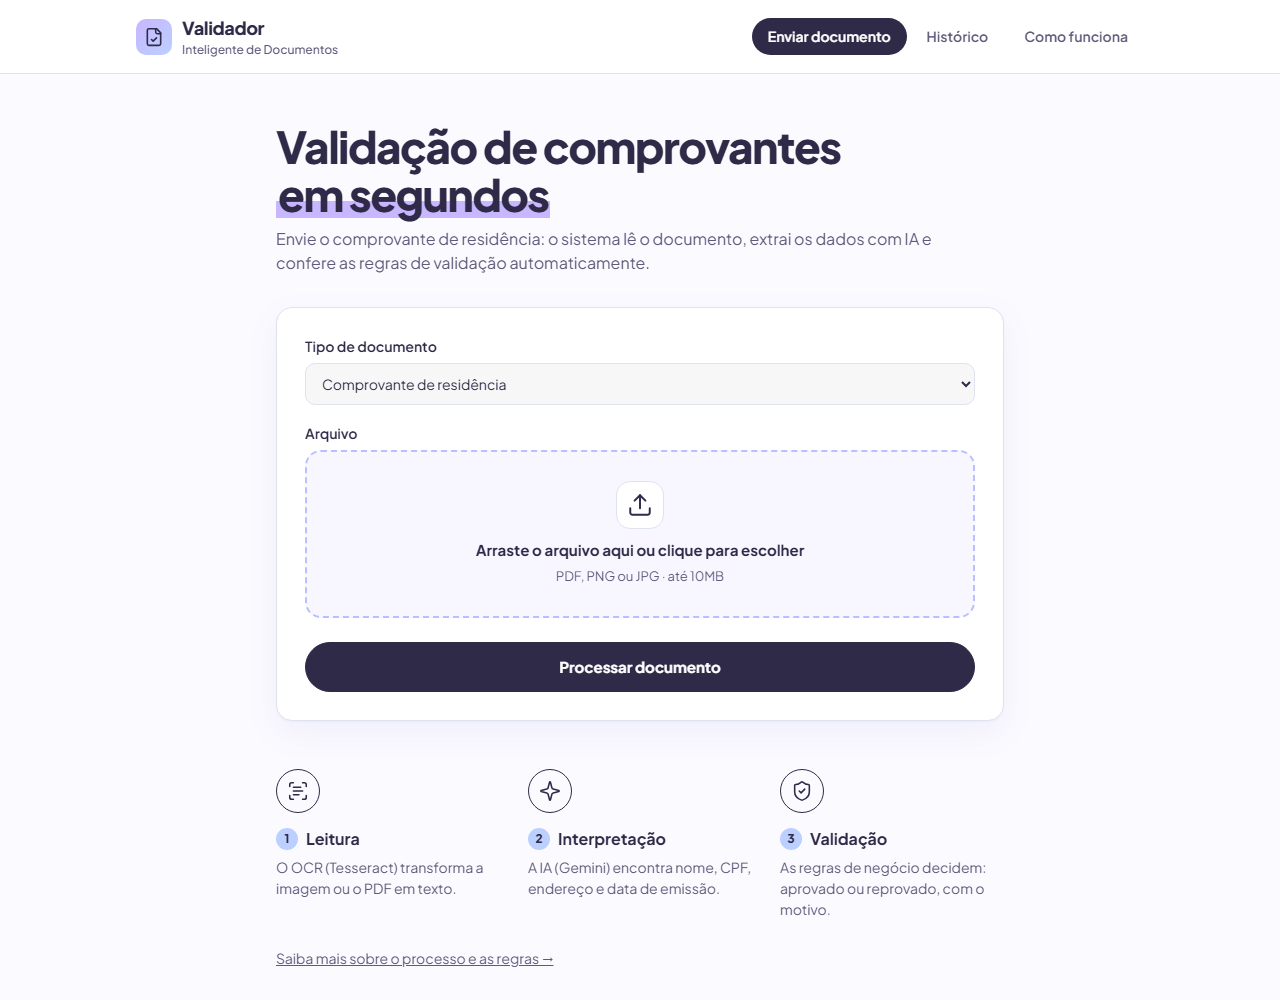
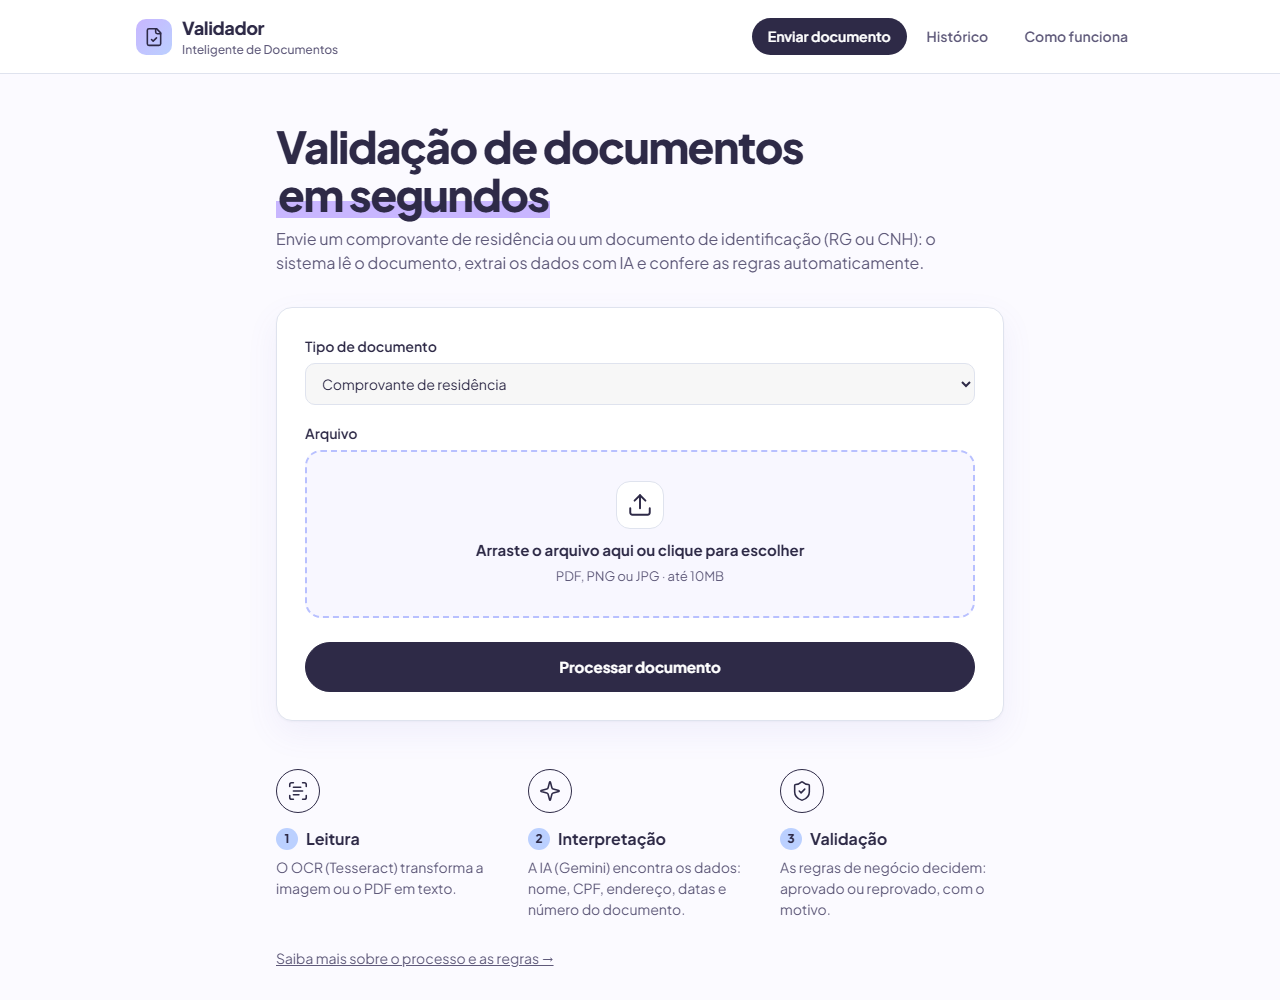
docs: inclui RG e CNH no README

Changed region(s): [[0.2188, 0.217, 0.7188, 0.279], [0.4375, 0.124, 0.6562, 0.186], [0.4062, 0.868, 0.5625, 0.93]]

diff --git a/README.md b/README.md
@@ -2,7 +2,7 @@
 
 Projeto do semestre 2026.2 — Residência Tecnológica (Porto Digital · CESAR School · mentoria Avanade).
 
-Aplicação em **Java + Spring Boot** que recebe documentos digitais (PDF/imagem), extrai as informações com **OCR (Tesseract)** e **IA (Google Gemini)**, aplica **regras de negócio** e devolve se o documento foi **APROVADO ou REPROVADO** — sempre com o motivo —, guardando o resultado no **PostgreSQL** para consulta pela tela e por uma **API REST**.
+Aplicação em **Java + Spring Boot** que recebe documentos digitais (PDF/imagem) — **comprovante de residência** e **documento de identificação (RG ou CNH)** —, extrai as informações com **OCR (Tesseract)** e **IA (Google Gemini)**, aplica **regras de negócio** e devolve se o documento foi **APROVADO ou REPROVADO** — sempre com o motivo —, guardando o resultado no **PostgreSQL** para consulta pela tela e por uma **API REST**.
 
 ![Tela de resultado: documento reprovado por emissão com mais de 90 dias](docs/prints/03-resultado-reprovado.png)
 
@@ -31,11 +31,11 @@ Aplicação em **Java + Spring Boot** que recebe documentos digitais (PDF/imagem
 |---|---|
 | **Problema** | A validação manual de documentos no cadastro de clientes é lenta, sujeita a erro e gera retrabalho e risco operacional. |
 | **Usuário** | Analista de cadastro / backoffice que precisa conferir documentos enviados por clientes. |
-| **Documento (MVP)** | **Comprovante de residência**. Próxima etapa: documento de identificação (RG/CNH). |
-| **Dados extraídos** | Nome, CPF, endereço, CEP, cidade, estado e data de emissão. |
-| **Regras** | Documento legível · nome identificado · CPF válido · endereço identificado · CEP válido · estado válido · emissão há no máximo 90 dias. |
+| **Documentos** | **Comprovante de residência** (MVP) e **documento de identificação — RG ou CNH**. |
+| **Dados extraídos** | Comprovante: nome, CPF, endereço, CEP, cidade, estado e data de emissão. RG/CNH: nome, CPF, número do documento, tipo (RG ou CNH), data de nascimento e validade. |
+| **Regras** | 7 regras por tipo de documento (ver [seção 8](#8-regras-de-validação)): legibilidade, nome e CPF em ambos; endereço, CEP, UF e emissão em até 90 dias no comprovante; número, nascimento, maioridade e validade no RG/CNH. |
 | **Aprovação** | Todos os dados obrigatórios extraídos e **todas** as regras atendidas. |
-| **Rejeição** | Documento ilegível, dados obrigatórios ausentes ou inválidos, ou emissão com mais de 90 dias. |
+| **Rejeição** | Documento ilegível, dados obrigatórios ausentes ou inválidos, comprovante emitido há mais de 90 dias, CNH vencida ou titular menor de idade. |
 
 ## 2. Fluxo da solução
 
@@ -43,16 +43,16 @@ Aplicação em **Java + Spring Boot** que recebe documentos digitais (PDF/imagem
 flowchart LR
     A["Upload<br/>PDF · PNG · JPG"] --> B["PDFBox<br/>PDF → imagem"]
     B --> C["Tesseract OCR<br/>imagem → texto"]
-    C --> D["Gemini<br/>texto → JSON"]
-    D --> E["Regras em Java<br/>7 validações"]
+    C --> D["Gemini<br/>texto → JSON<br/>(prompt por tipo)"]
+    D --> E["Regras em Java<br/>7 por tipo"]
     E --> F[("PostgreSQL")]
     F --> G["Tela + API REST<br/>APROVADO / REPROVADO"]
 ```
 
-1. O analista envia o arquivo pela tela (ou outro sistema envia pela API).
+1. O analista escolhe o tipo (comprovante ou RG/CNH) e envia o arquivo pela tela (ou outro sistema envia pela API).
 2. PDFs são renderizados em imagem (300 DPI, até 3 páginas) e o **Tesseract** lê o texto em português.
-3. O **Gemini** recebe o texto do OCR e devolve um JSON com os campos do comprovante (`null` quando não encontra — o prompt proíbe inventar).
-4. O `ValidacaoService` aplica as **7 regras**; o documento só é aprovado se todas passarem.
+3. O **Gemini** recebe o texto do OCR com o **prompt do tipo de documento** e devolve um JSON com os campos (`null` quando não encontra — o prompt proíbe inventar).
+4. O `ValidacaoService` aplica as **7 regras daquele tipo**; o documento só é aprovado se todas passarem.
 5. Tudo é gravado no **PostgreSQL** (texto do OCR, dados extraídos, status e o checklist de regras) e fica disponível no histórico e na API.
 
 > Se a IA estiver indisponível, o documento **não é reprovado**: ele é gravado como "não validado", com o motivo do erro. Falha da nossa infraestrutura não pode prejudicar o cliente.
@@ -63,13 +63,17 @@ flowchart LR
 |---|---|
 | ![Tela de envio](docs/prints/01-envio.png) | ![Resultado aprovado](docs/prints/02-resultado-aprovado.png) |
 
-| Histórico | Como funciona |
+| Resultado (CNH) | Histórico |
 |---|---|
-| ![Histórico](docs/prints/04-historico.png) | ![Como funciona](docs/prints/05-como-funciona.png) |
+| ![Resultado de uma CNH](docs/prints/06-resultado-cnh.png) | ![Histórico](docs/prints/04-historico.png) |
 
-- **Enviar documento:** área de arrastar e soltar, aviso imediato para arquivos acima de 10MB e botão "Processando…" durante o envio.
-- **Resultado:** selo APROVADO/REPROVADO, resumo "X de 7 regras atendidas", checklist com o motivo de cada regra, dados extraídos pela IA e o texto do OCR (recolhível).
-- **Histórico:** todos os documentos processados, do mais recente para o mais antigo.
+| Como funciona |
+|---|
+| ![Como funciona](docs/prints/05-como-funciona.png) |
+
+- **Enviar documento:** escolha do tipo (comprovante ou RG/CNH), área de arrastar e soltar, aviso imediato para arquivos acima de 10MB e botão "Processando…" durante o envio.
+- **Resultado:** selo APROVADO/REPROVADO, resumo "X de 7 regras atendidas", checklist com o motivo de cada regra, dados extraídos pela IA (os campos mudam conforme o tipo) e o texto do OCR (recolhível).
+- **Histórico:** todos os documentos processados, com o tipo, do mais recente para o mais antigo.
 - **Como funciona:** explica o problema, o fluxo, como usar, as regras e a API.
 
 Identidade visual em tons pastel (lilás `#C8B6FF`, lavanda `#B8C0FF`, azul `#BBD0FF`), fonte Plus Jakarta Sans e layout responsivo (celular sem rolagem horizontal).
@@ -98,9 +102,10 @@ br.com.matheuslarre.validadordocumentos
 ├── api/          DocumentoApiController (REST), DTOs (records), ApiExceptionHandler (ProblemDetail)
 ├── service/      ProcessamentoService (orquestra o fluxo), ArmazenamentoService (upload),
 │                 OcrService (Tesseract + PDFBox), ConsultaDocumentoService (histórico)
-├── ia/           GeminiService (chamada HTTP, nova tentativa, timeout), DadosComprovante (record)
-├── validacao/    ValidacaoService (7 regras), ResultadoValidacao, RegraResultado, StatusValidacao
-├── model/        Documento (entidade JPA), RegraAplicada (tabela filha do checklist)
+├── ia/           GeminiService (um prompt por tipo, nova tentativa, timeout),
+│                 DadosExtraidos (sealed interface) → DadosComprovante | DadosIdentificacao (records)
+├── validacao/    ValidacaoService (regras de cada tipo), ResultadoValidacao, RegraResultado, StatusValidacao
+├── model/        Documento (entidade JPA), RegraAplicada (tabela filha do checklist), TipoDocumento (enum)
 ├── repository/   DocumentoRepository (Spring Data JPA)
 ├── config/       RelogioConfig (Clock), OpenCvConfig
 └── imagem/       ConversorImagem (BufferedImage ↔ Mat do OpenCV)
@@ -158,7 +163,7 @@ O `.env` está no `.gitignore` e no `.dockerignore`: a chave nunca vai para o Gi
 
 | Método | Endpoint | Descrição | Resposta |
 |---|---|---|---|
-| `POST` | `/api/documentos` | Envia um documento (multipart: `tipo` + `arquivo`) | **201** + `Location` + JSON do resultado |
+| `POST` | `/api/documentos` | Envia um documento (multipart: `tipo` + `arquivo`); `tipo` = `COMPROVANTE_RESIDENCIA` ou `DOCUMENTO_IDENTIFICACAO` | **201** + `Location` + JSON do resultado |
 | `GET` | `/api/documentos` | Lista o histórico resumido | **200** |
 | `GET` | `/api/documentos/{id}` | Detalhe completo (regras, dados, OCR) | **200** ou **404** |
 
@@ -197,11 +202,13 @@ Erros seguem o padrão **ProblemDetail (RFC 9457)**:
 
 | Status | Quando |
 |---|---|
-| `400` | Arquivo vazio, formato não suportado ou parâmetro ausente |
+| `400` | Arquivo vazio, formato não suportado, tipo de documento desconhecido ou parâmetro ausente |
 | `404` | Documento inexistente (ou id malformado) |
 | `422` | O arquivo chegou, mas não foi possível ler (PDF/imagem corrompidos) |
 
 ## 8. Regras de validação
+
+### Comprovante de residência
 
 | # | Regra | Como é verificada |
 |---|---|---|
@@ -213,7 +220,19 @@ Erros seguem o padrão **ProblemDetail (RFC 9457)**:
 | 6 | **Estado válido** | Uma das 27 UFs brasileiras. |
 | 7 | **Emissão recente** | Data presente, não futura e com **no máximo 90 dias**. |
 
-**Decisão:** APROVADO só se as 7 regras passarem. Cada regra devolve o motivo, que aparece no checklist (ex.: *"Emitido em 10/07/2026, há 137 dias (limite: 90)"*).
+### Documento de identificação (RG ou CNH)
+
+| # | Regra | Como é verificada |
+|---|---|---|
+| 1 | **Documento legível** | Mesma regra do comprovante. |
+| 2 | **Nome identificado** | A IA encontrou o nome completo do titular. |
+| 3 | **CPF válido** | Mesma conferência do módulo 11. |
+| 4 | **Número do documento** | Número do RG ou registro da CNH encontrado. |
+| 5 | **Data de nascimento válida** | Presente, não futura e plausível (até 130 anos). |
+| 6 | **Titular maior de idade** | 18 anos completos — é cadastro de cliente. |
+| 7 | **Dentro da validade** | A CNH precisa ter validade e não estar vencida; o RG não tem validade e passa, com o motivo explicado. |
+
+**Decisão:** APROVADO só se as 7 regras do tipo passarem. Cada regra devolve o motivo, que aparece no checklist (ex.: *"Emitido em 10/07/2026, há 137 dias (limite: 90)"*, *"Documento vencido em 15/08/2025"* ou *"Titular tem 16 anos (mínimo: 18)"*). Legibilidade, nome e CPF são **as mesmas regras** nos dois tipos — o código é reaproveitado, não copiado.
 
 **Algoritmo do CPF (módulo 11):** o CPF tem 9 dígitos de base e 2 verificadores.
 - 1º verificador: multiplica os 9 primeiros dígitos pelos pesos 10, 9, …, 2 e soma. `resto = soma % 11`; se `resto < 2`, o dígito é 0, senão é `11 − resto`.
@@ -226,15 +245,15 @@ Erros seguem o padrão **ProblemDetail (RFC 9457)**:
 .\mvnw.cmd test
 ```
 
-**73 testes**, todos passando (também rodam dentro do `docker build`):
+**93 testes**, todos passando (também rodam dentro do `docker build`):
 
 | Tipo | O que cobre |
 |---|---|
-| **Unitários** (`ValidacaoServiceTest`) | Cada regra, com casos de borda: emissão com exatamente 90 dias, com 91 e no futuro; CPF com dígito errado, repetido e com dígito verificador 0. O `Clock` é fixo, então os testes não "vencem". |
-| **Unitários com Mockito** (`ProcessamentoServiceTest`) | A orquestração: IA fora do ar não reprova; documento ilegível não chama a IA; arquivo inválido não grava nada. |
-| **HTTP simulado** (`GeminiServiceTest`) | `MockRestServiceServer`: chave no cabeçalho, nova tentativa em 503, mensagem amigável e nenhuma nova tentativa em 404. A API real nunca é chamada. |
+| **Unitários** (`ValidacaoServiceTest`) | Cada regra, com casos de borda: emissão com exatamente 90 dias, com 91 e no futuro; CPF com dígito errado, repetido e com dígito verificador 0; 18 anos completos hoje (passa) e amanhã (falha); CNH que vence hoje (passa) e venceu ontem (falha); RG sem validade. O `Clock` é fixo, então os testes não "vencem". |
+| **Unitários com Mockito** (`ProcessamentoServiceTest`) | A orquestração: IA fora do ar não reprova; documento ilegível não chama a IA; arquivo inválido não grava nada; RG/CNH usa o prompt e as regras certos; tipo desconhecido nem salva o arquivo. |
+| **HTTP simulado** (`GeminiServiceTest`) | `MockRestServiceServer`: chave no cabeçalho, prompt certo por tipo, nova tentativa em 503, mensagem amigável e nenhuma nova tentativa em 404. A API real nunca é chamada. |
 | **Integração com H2** (`DocumentoRepositoryTest`) | Mapeamento JPA: grava e lê o documento com o checklist na ordem certa. |
-| **API com MockMvc** (`DocumentoApiControllerTest`) | Status 201/400/404, cabeçalho `Location`, formato ProblemDetail e DTOs. |
+| **API com MockMvc** (`DocumentoApiControllerTest`) | Status 201/400/404, cabeçalho `Location`, formato ProblemDetail, DTOs e os campos de cada tipo de documento. |
 
 ## 10. Decisões técnicas e trade-offs
 
@@ -245,6 +264,10 @@ Erros seguem o padrão **ProblemDetail (RFC 9457)**:
 - **`record` para dados imutáveis** (`DadosComprovante`, `RegraResultado`, DTOs): o Java gera construtor, getters, `equals` e `toString`, e o objeto não muda depois de criado.
 - **`Clock` injetado com fuso `America/Sao_Paulo`.** Os testes fixam "hoje" numa data conhecida (senão o teste dos 90 dias quebraria com o tempo). O fuso explícito evita que, no Docker (UTC), a data vire o dia seguinte depois das 21h.
 - **IA fora do ar não reprova o documento:** ele fica "não validado", com o motivo. OCR sem texto, por outro lado, reprova como ilegível.
+- **Um novo tipo de documento sem reescrever o fluxo.** O RG/CNH entrou com: um `enum TipoDocumento`, um segundo prompt e um novo conjunto de regras. O `ProcessamentoService` escolhe prompt e regras com um `switch` sobre o enum — se um terceiro tipo for criado, o compilador aponta todos os lugares que precisam tratá-lo.
+- **`sealed interface DadosExtraidos`** (Java 17): os dados extraídos só podem ser `DadosComprovante` ou `DadosIdentificacao`. O compilador garante que não existe um terceiro tipo "surpresa".
+- **Método genérico na IA** (`<T> T extrair(prompt, texto, Class<T>)`): a chamada HTTP, a nova tentativa e a conversão do JSON são as mesmas para os dois documentos; só mudam o prompt e o record de destino.
+- **Regras de negócio do RG/CNH:** maioridade (18 anos) porque o contexto é cadastro de cliente; e o RG, que normalmente não tem validade, passa nessa regra com o motivo explicado — em vez de ser reprovado por um campo que não existe nele.
 
 **Integração com a IA**
 - **Versão fixa do modelo (`gemini-2.5-flash`) em vez do apelido `latest`.** O apelido muda sozinho e é o mais disputado (nos testes, dava 503 por alta demanda). Fixar a versão dá previsibilidade, como fixar a versão de uma dependência no `pom.xml`.
@@ -267,7 +290,8 @@ Erros seguem o padrão **ProblemDetail (RFC 9457)**:
 ## 11. Limitações e próximos passos
 
 - **Pré-processamento com OpenCV:** a base está integrada (carregamento da biblioteca e conversão de imagens), mas a imagem ainda vai direto para o OCR. Próximo passo: tons de cinza, ampliação, remoção de ruído e binarização antes do Tesseract, para melhorar fotos de celular.
-- **Segundo tipo de documento (RG/CNH):** outro prompt, outro record e outras regras, escolhidos por um `enum TipoDocumento`.
+- **Mais tipos de documento** (ex.: CNH digital, passaporte, contrato social): o caminho já existe — um valor no `enum`, um prompt, um record e as regras.
+- **Cruzar documentos:** conferir se o nome e o CPF do comprovante batem com os do RG/CNH do mesmo cliente.
 - **Autenticação:** hoje qualquer pessoa com acesso à aplicação consulta o histórico. Em produção, login para os analistas e chave de acesso para a API.
 - **LGPD:** os dados pessoais ficam gravados sem prazo de retenção. Próximos passos: mascarar o CPF na tela, definir prazo de exclusão e restringir o acesso.
 - **Tipo do arquivo** é validado pelo `Content-Type` informado pelo navegador; o ideal é conferir a assinatura real do arquivo.
@@ -279,7 +303,7 @@ Erros seguem o padrão **ProblemDetail (RFC 9457)**:
 
 - **Testar de verdade revela o que o teste automático não pega.** O primeiro teste manual achou dois problemas que nenhum teste unitário mostraria: o `;jsessionid` na URL do redirect (404) e o 503 do modelo `latest` sobrecarregado.
 - **Datas precisam ser testáveis.** Sem injetar o `Clock`, um teste de "90 dias" passa hoje e falha na semana que vem.
-- **Separar responsabilidades paga a conta depois.** Quando a API REST chegou, ela reaproveitou o `ProcessamentoService` inteiro: só foi preciso escrever o controller e os DTOs.
+- **Separar responsabilidades paga a conta depois.** Quando a API REST chegou, ela reaproveitou o `ProcessamentoService` inteiro: só foi preciso escrever o controller e os DTOs. E o RG/CNH entrou como um novo tipo, sem reescrever o fluxo.
 - **IA é uma dependência externa como outra qualquer:** pode cair, demorar ou mudar. Por isso nova tentativa, timeout, mensagem amigável e a decisão de não reprovar um documento por falha da IA.
 - **Mock vs. integração:** o Mockito testa a orquestração isolada e rápido; o H2 e o MockMvc provam que as peças funcionam juntas.
 - **Docker de ponta a ponta:** multi-stage, usuário não-root, healthcheck e segredo fora da imagem — rodar "na minha máquina" e "em qualquer máquina" são coisas diferentes.
@@ -298,8 +322,8 @@ Erros seguem o padrão **ProblemDetail (RFC 9457)**:
 - [x] API REST
 - [x] Docker Compose
 - [x] Nova identidade visual e página "Como funciona"
+- [x] Segundo tipo de documento (RG/CNH)
 - [ ] Pré-processamento com OpenCV
-- [ ] Segundo tipo de documento (RG/CNH)
 - [ ] Deploy
 
 ## Uso de IA no desenvolvimento
